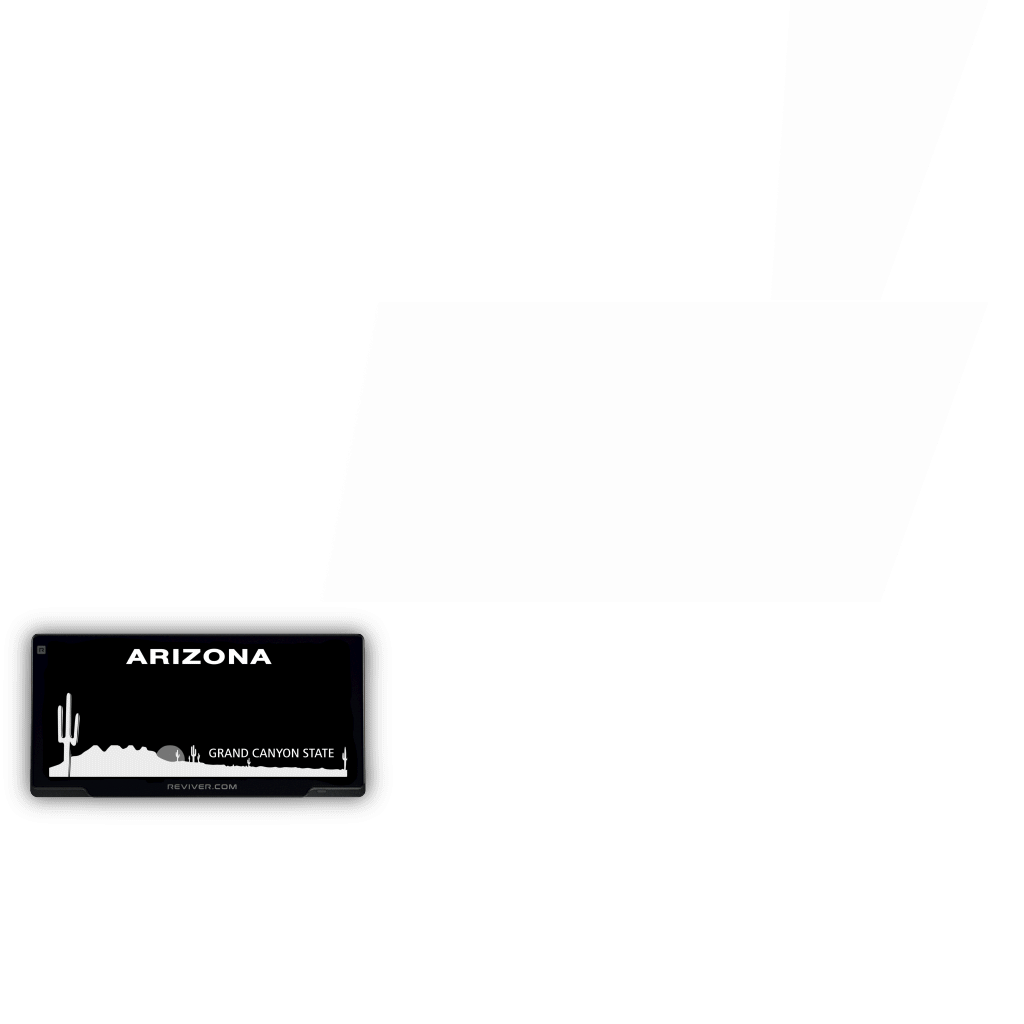
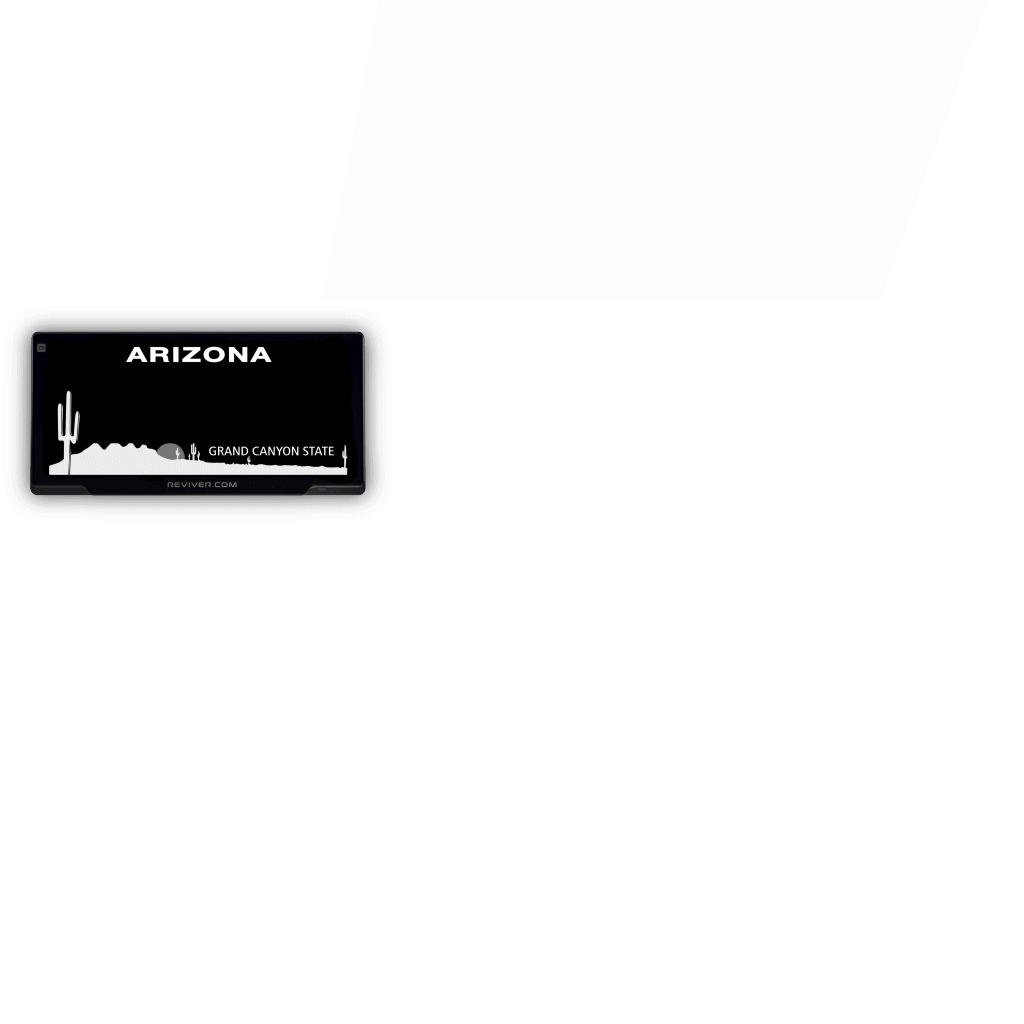
Add files via upload

Changed region(s): [[0.0, 0.5938, 0.375, 0.8125], [0.0, 0.3125, 0.375, 0.5]]

diff --git a/az detour/300x250/300x250 AZ DETOUR.js b/az detour/300x250/300x250 AZ DETOUR.js
@@ -3,7 +3,7 @@
 var p; // shortcut to reference prototypes
 var lib={};var ss={};var img={};
 lib.ssMetadata = [
-		{name:"300x250 AZ DETOUR_atlas_P_1", frames: [[0,604,397,224],[0,0,1000,300],[0,302,1000,300]]},
+		{name:"300x250 AZ DETOUR_atlas_P_1", frames: [[0,302,397,224],[0,0,1000,300]]},
 		{name:"300x250 AZ DETOUR_atlas_NP_1", frames: [[0,0,601,501]]}
 ];
 
@@ -42,16 +42,9 @@ lib.ssMetadata = [
 
 
 
-(lib.plateHL2CTA = function() {
-	this.initialize(ss["300x250 AZ DETOUR_atlas_P_1"]);
-	this.gotoAndStop(1);
-}).prototype = p = new cjs.Sprite();
-
-
-
 (lib.plateHL2 = function() {
 	this.initialize(ss["300x250 AZ DETOUR_atlas_P_1"]);
-	this.gotoAndStop(2);
+	this.gotoAndStop(1);
 }).prototype = p = new cjs.Sprite();
 // helper functions:
 
@@ -279,28 +272,6 @@ if (reversed == null) { reversed = false; }
 p.nominalBounds = new cjs.Rectangle(0,0,284.1,52.1);
 
 
-(lib.plate_HLCTA = function(mode,startPosition,loop,reversed) {
-if (loop == null) { loop = true; }
-if (reversed == null) { reversed = false; }
-	var props = new Object();
-	props.mode = mode;
-	props.startPosition = startPosition;
-	props.labels = {};
-	props.loop = loop;
-	props.reversed = reversed;
-	cjs.MovieClip.apply(this,[props]);
-
-	// Layer_2
-	this.instance = new lib.plateHL2CTA();
-	this.instance.setTransform(-410,-73,0.5,0.5);
-
-	this.timeline.addTween(cjs.Tween.get(this.instance).wait(1));
-
-	this._renderFirstFrame();
-
-}).prototype = getMCSymbolPrototype(lib.plate_HLCTA, new cjs.Rectangle(-410,-73,500,150), null);
-
-
 (lib.plate_HL = function(mode,startPosition,loop,reversed) {
 if (loop == null) { loop = true; }
 if (reversed == null) { reversed = false; }
@@ -366,7 +337,7 @@ if (reversed == null) { reversed = false; }
 }).prototype = getMCSymbolPrototype(lib.HEAD1, new cjs.Rectangle(-66.5,-19.6,133.1,39.3), null);
 
 
-(lib.CTA = function(mode,startPosition,loop,reversed) {
+(lib.CTA_type = function(mode,startPosition,loop,reversed) {
 if (loop == null) { loop = true; }
 if (reversed == null) { reversed = false; }
 	var props = new Object();
@@ -377,50 +348,66 @@ if (reversed == null) { reversed = false; }
 	props.reversed = reversed;
 	cjs.MovieClip.apply(this,[props]);
 
-	// Layer_2
+	// Layer_1
 	this.shape = new cjs.Shape();
 	this.shape.graphics.f("#000000").s().p("AgRAqQgIgEgFgHQgGgHAAgIIAXAAQAAAFAFAEQAEADAGAAQAGAAAEgCQADgDAAgEQAAgEgEgDIgNgEIgQgFQgHgDgEgEQgFgFAAgJQAAgIAEgGQAFgGAHgDQAIgEAKAAQAQAAAJAIQAKAIABANIgWAAQAAgFgEgDQgEgDgGAAQgGAAgDACQgDACAAAEQAAAFAEACQAFADAIACIAQAFQAGACAFAFQAEAFABAJQAAAIgFAGQgEAGgIADQgIAEgKAAQgKAAgJgEg");
-	this.shape.setTransform(34.225,0.475);
+	this.shape.setTransform(34.225,1.175);
 
 	this.shape_1 = new cjs.Shape();
-	this.shape_1.graphics.f("#000000").s().p("AgYAtIAAhYIAXAAIAAAOQADgHAHgEQAHgEAJAAIAAAYIgGAAQgLAAgFAEQgEAFAAAMIAAAsg");
-	this.shape_1.setTransform(27.025,0.4);
+	this.shape_1.graphics.f("#000000").s().p("AgYAtIAAhXIAXAAIAAANQADgHAHgEQAHgEAJAAIAAAXIgGAAQgLABgFAFQgEAEAAAMIAAAsg");
+	this.shape_1.setTransform(27.025,1.1);
 
 	this.shape_2 = new cjs.Shape();
 	this.shape_2.graphics.f("#000000").s().p("AgYAoQgIgEgEgIQgFgJAAgMIAAgzIAWAAIAAAwQAAAKAGAGQAFAGAIAAQAJAAAGgGQAFgGAAgKIAAgwIAWAAIAABYIgWAAIAAgLQgEAFgHAEQgHADgHAAQgLAAgIgFg");
-	this.shape_2.setTransform(18.125,0.525);
+	this.shape_2.setTransform(18.125,1.225);
 
 	this.shape_3 = new cjs.Shape();
 	this.shape_3.graphics.f("#000000").s().p("AgWAoQgLgGgFgKQgHgKAAgOQAAgNAHgKQAFgKALgGQALgGALAAQANAAAKAGQAKAGAHAKQAFAKAAANQAAAOgFAKQgHAKgKAGQgLAGgMAAQgNAAgJgGgAgQgSQgGAGAAAMQAAANAGAGQAHAHAJAAQAFAAAGgDQAFgDADgGQAEgGAAgIQAAgMgHgGQgGgHgKAAQgJAAgHAHg");
-	this.shape_3.setTransform(7.8,0.475);
+	this.shape_3.setTransform(7.8,1.175);
 
 	this.shape_4 = new cjs.Shape();
 	this.shape_4.graphics.f("#000000").s().p("AgLA4IAAgnIglhIIAZAAIAXAzIAYgzIAZAAIgmBIIAAAng");
-	this.shape_4.setTransform(-1.45,-0.675);
+	this.shape_4.setTransform(-1.45,0.025);
 
 	this.shape_5 = new cjs.Shape();
 	this.shape_5.graphics.f("#000000").s().p("AANA3QgcAAAAgbIAAgqIgKAAIAAgSIAKAAIAAgWIAVAAIAAAWIAUAAIAAASIgUAAIAAAqQABAEACACQACACAFAAIAKAAIAAATg");
-	this.shape_5.setTransform(-13.5,-0.625);
+	this.shape_5.setTransform(-13.5,0.075);
 
 	this.shape_6 = new cjs.Shape();
[1 lines of base64/hex data omitted]
-	this.shape_6.setTransform(-21.45,0.475);
+	this.shape_6.setTransform(-21.45,1.175);
 
 	this.shape_7 = new cjs.Shape();
-	this.shape_7.graphics.f("#000000").s().p("AgbAxQgNgGgIgNQgHgOAAgQQAAgQAHgNQAIgNANgHQANgHAPAAQATAAAOAJQAOAKAFAQIgaAAQgDgHgIgEQgGgEgJABQgJgBgHAFQgIAEgFAJQgEAIAAAKQAAALAEAJQAFAIAIAEQAIAFAJAAQANAAAIgHQAIgHACgMIgkAAIAAgQIA7AAIAAASQgCAMgIAKQgHAKgMAGQgLAGgPAAQgPAAgNgIg");
-	this.shape_7.setTransform(-32.5,-0.7);
+	this.shape_7.graphics.f("#000000").s().p("AgbAxQgNgHgIgMQgHgOAAgQQAAgPAHgOQAIgNANgHQANgHAPAAQATAAAOAJQAOAJAFARIgaAAQgDgHgIgEQgGgEgJAAQgJAAgHAFQgIAFgFAIQgEAIAAAKQAAALAEAJQAFAIAIAEQAIAFAJAAQANAAAIgHQAIgHACgMIgkAAIAAgQIA7AAIAAATQgCALgIAKQgHAKgMAGQgLAGgPAAQgPAAgNgIg");
+	this.shape_7.setTransform(-32.5,0);
 
 	this.timeline.addTween(cjs.Tween.get({}).to({state:[{t:this.shape_7},{t:this.shape_6},{t:this.shape_5},{t:this.shape_4},{t:this.shape_3},{t:this.shape_2},{t:this.shape_1},{t:this.shape}]}).wait(1));
 
-	// Layer_1
-	this.shape_8 = new cjs.Shape();
-	this.shape_8.graphics.f("#B6A148").s().p("AnzCDIAAkFIPnAAIAAEFg");
+	this._renderFirstFrame();
 
-	this.timeline.addTween(cjs.Tween.get(this.shape_8).wait(1));
+}).prototype = getMCSymbolPrototype(lib.CTA_type, new cjs.Rectangle(-50.1,-13.2,100.2,26.4), null);
+
+
+(lib.CTA_box = function(mode,startPosition,loop,reversed) {
+if (loop == null) { loop = true; }
+if (reversed == null) { reversed = false; }
+	var props = new Object();
+	props.mode = mode;
+	props.startPosition = startPosition;
+	props.labels = {};
+	props.loop = loop;
+	props.reversed = reversed;
+	cjs.MovieClip.apply(this,[props]);
+
+	// cta_box
+	this.shape = new cjs.Shape();
+	this.shape.graphics.f("#FFFFFF").s().p("AnzCDIAAkFIPnAAIAAEFg");
+
+	this.timeline.addTween(cjs.Tween.get(this.shape).wait(1));
 
 	this._renderFirstFrame();
 
-}).prototype = getMCSymbolPrototype(lib.CTA, new cjs.Rectangle(-50.1,-13.9,100.2,27), null);
+}).prototype = getMCSymbolPrototype(lib.CTA_box, new cjs.Rectangle(-49.9,-13,99.9,26.1), null);
 
 
 // stage content:
@@ -456,27 +443,14 @@ if (reversed == null) { reversed = false; }
 
 	this.timeline.addTween(cjs.Tween.get(this.instance_1).wait(118));
 
-	// MASK_copy (mask)
-	var mask = new cjs.Shape();
-	mask._off = true;
-	mask.graphics.p("AHCS6IAAkFIPnAAIAAEFg");
-	mask.setTransform(144.85,121.025);
+	// CTA_type
+	this.instance_2 = new lib.CTA_type();
+	this.instance_2.setTransform(239.9,229.3);
 
-	// plate_HL_CTA
-	this.instance_2 = new lib.plate_HLCTA();
-	this.instance_2.setTransform(102,285);
-	this.instance_2._off = true;
+	this.timeline.addTween(cjs.Tween.get(this.instance_2).wait(55).to({regX:0.1,regY:0.1,scaleX:1.2,scaleY:1.2,x:239.85,y:229.35},3,cjs.Ease.quadInOut).to({regX:0,regY:0,scaleX:1,scaleY:1,x:239.9,y:229.3},6,cjs.Ease.quadInOut).wait(54));
 
-	var maskedShapeInstanceList = [this.instance_2];
-
-	for(var shapedInstanceItr = 0; shapedInstanceItr < maskedShapeInstanceList.length; shapedInstanceItr++) {
-		maskedShapeInstanceList[shapedInstanceItr].mask = mask;
-	}
-
-	this.timeline.addTween(cjs.Tween.get(this.instance_2).wait(77).to({_off:false},0).to({x:320},15).wait(26));
-
-	// CTA
-	this.instance_3 = new lib.CTA();
+	// CTA_box
+	this.instance_3 = new lib.CTA_box();
 	this.instance_3.setTransform(239.9,229.3);
 
 	this.timeline.addTween(cjs.Tween.get(this.instance_3).wait(118));
@@ -488,10 +462,10 @@ if (reversed == null) { reversed = false; }
 	this.timeline.addTween(cjs.Tween.get(this.instance_4).wait(118));
 
 	// MASK (mask)
-	var mask_1 = new cjs.Shape();
-	mask_1._off = true;
-	mask_1.graphics.p("As8GVIAAspIZ5AAIAAMpg");
-	mask_1.setTransform(149.075,100.675);
+	var mask = new cjs.Shape();
+	mask._off = true;
+	mask.graphics.p("As8GVIAAspIZ5AAIAAMpg");
+	mask.setTransform(149.075,100.675);
 
 	// plate_HL
 	this.instance_5 = new lib.plate_HL();
@@ -501,7 +475,7 @@ if (reversed == null) { reversed = false; }
 	var maskedShapeInstanceList = [this.instance_5];
 
 	for(var shapedInstanceItr = 0; shapedInstanceItr < maskedShapeInstanceList.length; shapedInstanceItr++) {
-		maskedShapeInstanceList[shapedInstanceItr].mask = mask_1;
+		maskedShapeInstanceList[shapedInstanceItr].mask = mask;
 	}
 
 	this.timeline.addTween(cjs.Tween.get(this.instance_5).wait(10).to({_off:false},0).to({x:148},28,cjs.Ease.quartOut).to({x:140},11,cjs.Ease.quadInOut).wait(69));
@@ -531,8 +505,8 @@ lib.properties = {
 	color: "#CCCCCC",
 	opacity: 1.00,
 	manifest: [
-		{src:"images/300x250 AZ DETOUR_atlas_P_1.png?1679074388235", id:"300x250 AZ DETOUR_atlas_P_1"},
-		{src:"images/300x250 AZ DETOUR_atlas_NP_1.jpg?1679074388235", id:"300x250 AZ DETOUR_atlas_NP_1"}
+		{src:"images/300x250 AZ DETOUR_atlas_P_1.png?1679079586851", id:"300x250 AZ DETOUR_atlas_P_1"},
+		{src:"images/300x250 AZ DETOUR_atlas_NP_1.jpg?1679079586851", id:"300x250 AZ DETOUR_atlas_NP_1"}
 	],
 	preloads: []
 };

diff --git a/az detour/300x250/300x250 AZ DETOUR.html b/az detour/300x250/300x250 AZ DETOUR.html
@@ -19,7 +19,7 @@ var clickTag = "https://reviver.com/rplate/"; </script>
 <!-- DCM/Google/DoubleClick: Change external scripts URL to 2020 version: <script src="https://s0.2mdn.net/ads/studio/cached_libs/createjs_2019.11.15_min.js"></script> -->
 <!-- Remove garbage after .js -->
 <script src="https://code.createjs.com/1.0.0/createjs.min.js"></script>
-<script src="300x250 AZ DETOUR.js?1679074388288"></script>
+<script src="300x250 AZ DETOUR.js?1679079586899"></script>
 <script>
 var canvas, stage, exportRoot, anim_container, dom_overlay_container, fnStartAnimation;
 function init() {
